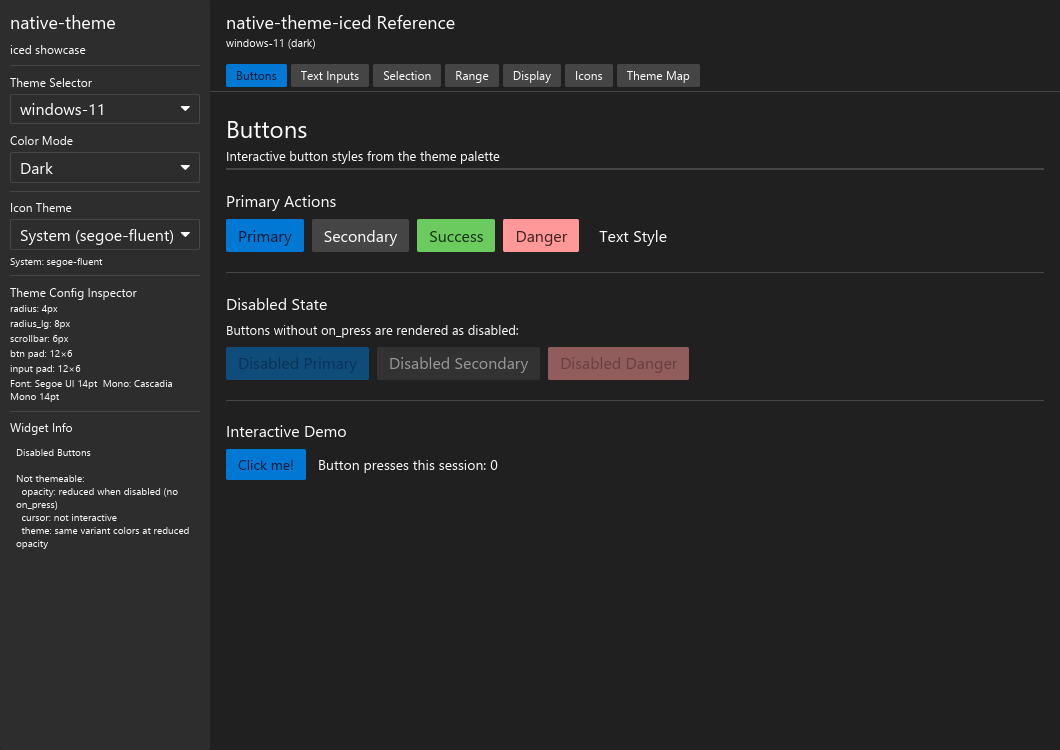
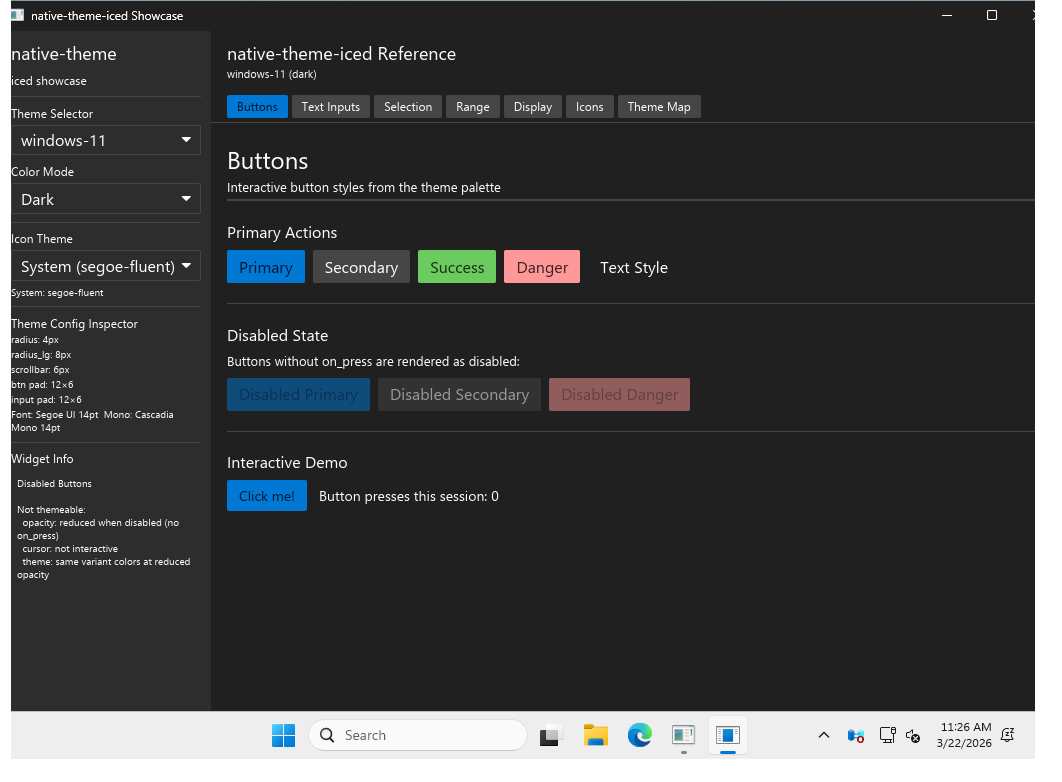
feat: add gpui Windows self-capture, macOS screenshots, improve pre-release pipeline
Add Windows BitBlt self-capture to gpui showcase with DwmGetWindowAttribute
for decoration-inclusive bounds. Add macOS gpui screenshots and update
README with macOS/Windows screenshot sections. Enable Windows screenshot
capture in CI workflow. Reorder pre-release.sh to trigger CI first and
generate local assets in parallel while CI runs. Add windows feature to
gpui connector and platform-specific dev-dependencies.

Changed region(s): [[0.0, 0.0, 1.0, 1.0], [0.1868, 0.3987, 0.6538, 0.6747]]

diff --git a/connectors/native-theme-gpui/examples/showcase.rs b/connectors/native-theme-gpui/examples/showcase.rs
@@ -5208,10 +5208,129 @@ fn capture_own_window_macos(_window: &mut Window, output_path: &str) {
 }
 
 // ---------------------------------------------------------------------------
+// Self-capture screenshot (Windows only)
+// ---------------------------------------------------------------------------
+
+/// Capture the gpui window including decorations using Windows BitBlt.
+///
+/// Uses `GetForegroundWindow` to obtain the HWND, `DwmGetWindowAttribute` with
+/// `DWMWA_EXTENDED_FRAME_BOUNDS` for decoration-inclusive bounds (excluding drop
+/// shadow), then `BitBlt` + `GetDIBits` to extract pixel data as a PNG.
+#[cfg(target_os = "windows")]
+fn capture_own_window_windows(_window: &mut Window, output_path: &str) {
+    use windows::Win32::Foundation::*;
+    use windows::Win32::Graphics::Dwm::*;
+    use windows::Win32::Graphics::Gdi::*;
+    use windows::Win32::UI::WindowsAndMessaging::*;
+
+    unsafe {
+        let hwnd = GetForegroundWindow();
+        if hwnd.0.is_null() {
+            eprintln!("No foreground window found");
+            return;
+        }
+
+        let mut rect = RECT::default();
+        if let Err(e) = DwmGetWindowAttribute(
+            hwnd,
+            DWMWA_EXTENDED_FRAME_BOUNDS,
+            &mut rect as *mut _ as *mut std::ffi::c_void,
+            std::mem::size_of::<RECT>() as u32,
+        ) {
+            eprintln!("DwmGetWindowAttribute failed: {e}");
+            return;
+        }
+
+        let width = rect.right - rect.left;
+        let height = rect.bottom - rect.top;
+        if width <= 0 || height <= 0 {
+            eprintln!("Invalid window dimensions: {width}x{height}");
+            return;
+        }
+
+        let screen_dc = GetDC(None);
+        let mem_dc = CreateCompatibleDC(Some(screen_dc));
+        let bitmap = CreateCompatibleBitmap(screen_dc, width, height);
+        let old_obj = SelectObject(mem_dc, bitmap.into());
+
+        let blt_result = BitBlt(
+            mem_dc,
+            0,
+            0,
+            width,
+            height,
+            Some(screen_dc),
+            rect.left,
+            rect.top,
+            SRCCOPY | CAPTUREBLT,
+        );
+
+        if blt_result.is_err() {
+            SelectObject(mem_dc, old_obj);
+            let _ = DeleteObject(bitmap.into());
+            let _ = DeleteDC(mem_dc);
+            ReleaseDC(None, screen_dc);
+            eprintln!("BitBlt failed");
+            return;
+        }
+
+        let mut bmi = BITMAPINFO {
+            bmiHeader: BITMAPINFOHEADER {
+                biSize: std::mem::size_of::<BITMAPINFOHEADER>() as u32,
+                biWidth: width,
+                biHeight: -height, // negative = top-down
+                biPlanes: 1,
+                biBitCount: 32,
+                biCompression: BI_RGB.0 as u32,
+                ..Default::default()
+            },
+            ..Default::default()
+        };
+
+        let mut pixels = vec![0u8; (width * height * 4) as usize];
+        let lines = GetDIBits(
+            mem_dc,
+            bitmap,
+            0,
+            height as u32,
+            Some(pixels.as_mut_ptr() as *mut std::ffi::c_void),
+            &mut bmi,
+            DIB_RGB_COLORS,
+        );
+
+        SelectObject(mem_dc, old_obj);
+        let _ = DeleteObject(bitmap.into());
+        let _ = DeleteDC(mem_dc);
+        ReleaseDC(None, screen_dc);
+
+        if lines == 0 {
+            eprintln!("GetDIBits returned 0 lines");
+            return;
+        }
+
+        // GetDIBits returns BGRA; convert to RGBA for image crate
+        for chunk in pixels.chunks_exact_mut(4) {
+            chunk.swap(0, 2); // B <-> R
+        }
+
+        match image::save_buffer(
+            output_path,
+            &pixels,
+            width as u32,
+            height as u32,
+            image::ColorType::Rgba8,
+        ) {
+            Ok(()) => eprintln!("Screenshot saved to {output_path}"),
+            Err(e) => eprintln!("Failed to save PNG: {e}"),
+        }
+    }
+}
+
+// ---------------------------------------------------------------------------
 // Main
 // ---------------------------------------------------------------------------
 
-#[cfg(any(target_os = "macos", target_os = "linux"))]
+#[cfg(any(target_os = "macos", target_os = "linux", target_os = "windows"))]
 fn main() {
     let cli_args = CliArgs::parse();
 
@@ -5339,7 +5458,20 @@ fn main() {
                     })
                     .detach();
                 }
-                #[cfg(not(target_os = "macos"))]
+                #[cfg(target_os = "windows")]
+                {
+                    let path = cli_args.screenshot.as_ref().unwrap().clone();
+                    let any_handle = *window_handle;
+                    cx.spawn(async move |cx| {
+                        Timer::after(Duration::from_millis(1500)).await;
+                        let _ = cx.update_window(any_handle, |_view, window, _cx| {
+                            capture_own_window_windows(window, &path);
+                        });
+                        let _ = cx.update(|cx| cx.quit());
+                    })
+                    .detach();
+                }
+                #[cfg(not(any(target_os = "macos", target_os = "windows")))]
                 {
                     eprintln!(
                         "Self-capture not supported on this platform. \
@@ -5348,11 +5480,11 @@ fn main() {
                     // Continue running -- let the user capture manually
                 }
             }
-            let _ = &window_handle; // suppress unused warning on non-macOS
+            let _ = &window_handle; // suppress unused warning when not used for capture
         });
 }
 
-#[cfg(not(any(target_os = "macos", target_os = "linux")))]
+#[cfg(not(any(target_os = "macos", target_os = "linux", target_os = "windows")))]
 fn main() {
-    eprintln!("gpui showcase requires macOS or Linux");
+    eprintln!("gpui showcase is not supported on this platform");
 }

diff --git a/connectors/native-theme-gpui/README.md b/connectors/native-theme-gpui/README.md
@@ -141,12 +141,29 @@ switching and a color map inspector.
 
 ### Linux
 
-![KDE Breeze Dark](../../docs/assets/gpui-linux-kde-breeze-dark.png)
 ![KDE Breeze Light](../../docs/assets/gpui-linux-kde-breeze-light.png)
-![Material Dark](../../docs/assets/gpui-linux-material-dark.png)
+
+![KDE Breeze Dark](../../docs/assets/gpui-linux-kde-breeze-dark.png)
+
 ![Material Light](../../docs/assets/gpui-linux-material-light.png)
-![Catppuccin Mocha Dark](../../docs/assets/gpui-linux-catppuccin-mocha-dark.png)
+
+![Material Dark](../../docs/assets/gpui-linux-material-dark.png)
+
 ![Catppuccin Mocha Light](../../docs/assets/gpui-linux-catppuccin-mocha-light.png)
+
+![Catppuccin Mocha Dark](../../docs/assets/gpui-linux-catppuccin-mocha-dark.png)
+
+### macOS
+
+![macOS Sonoma Light](../../docs/assets/gpui-macos-macos-sonoma-light.png)
+
+![macOS Sonoma Dark](../../docs/assets/gpui-macos-macos-sonoma-dark.png)
+
+### Windows
+
+![Windows 11 Light](../../docs/assets/gpui-windows-windows-11-light.png)
+
+![Windows 11 Dark](../../docs/assets/gpui-windows-windows-11-dark.png)
 
 ## License
 
